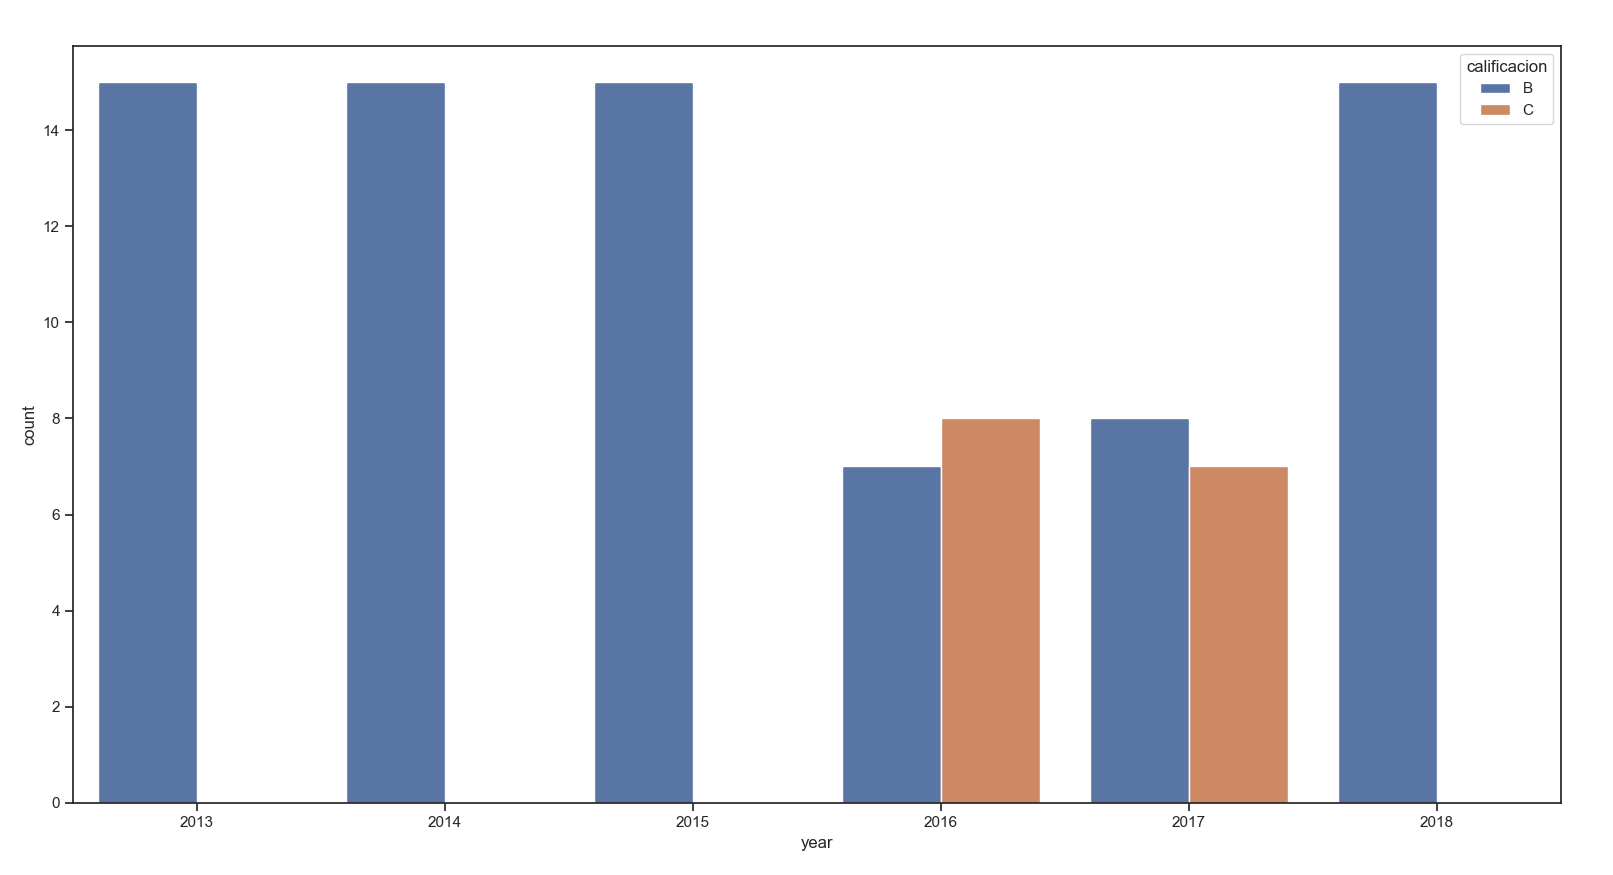
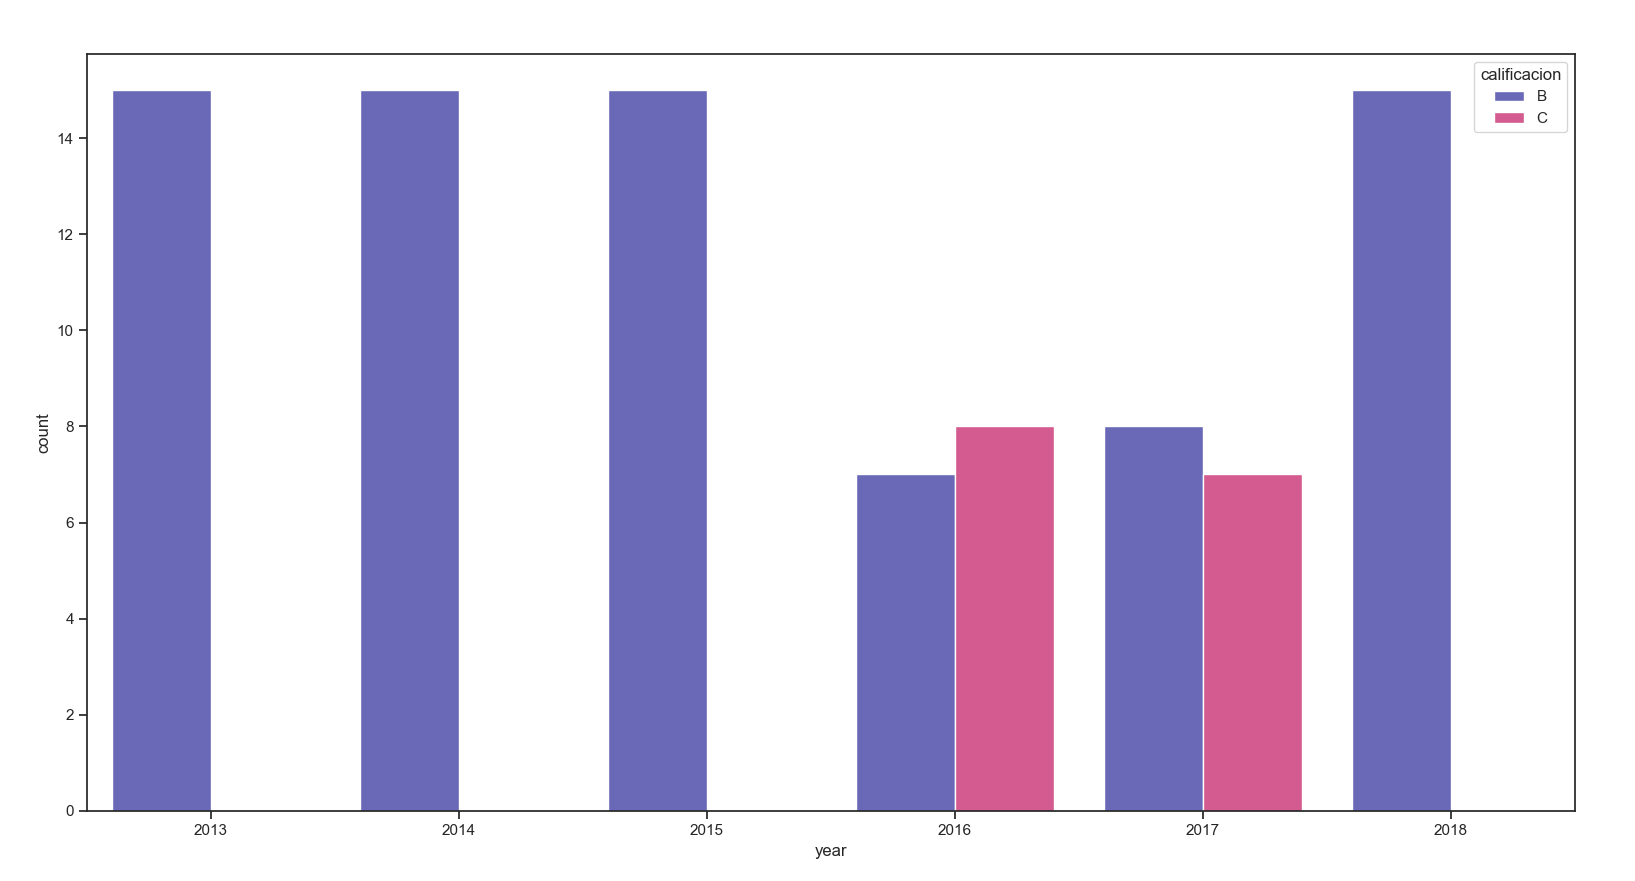
grafos de seaborn cambiados de color

Changed region(s): [[0.0, 0.0309, 0.9609, 0.9566], [0.682, 0.4629, 0.744, 0.4937], [0.496, 0.9566, 0.527, 0.9874]]

diff --git a/src/main/python/docentes/barplot_metro_rank_count.py b/src/main/python/docentes/barplot_metro_rank_count.py
@@ -40,7 +40,13 @@ cat_5 = df[df['year']==2017]
 cat_6 = df[df['year']==2018]
 
 sns.set(style='ticks')
-ax = sns.countplot(x="year", hue="calificacion" ,data=df)
+
+
+
+color = ["#5C5CC4", "#E7478D", "#90C4FE", "#1BBC9D", "#FFBB4C"]
+
+ax = sns.countplot(x="year", hue="calificacion" ,data=df,palette=color)
+
 
 plt.show()
 

diff --git a/src/main/python/docentes/barplot_region_rank_count.py b/src/main/python/docentes/barplot_region_rank_count.py
@@ -40,7 +40,9 @@ cat_5 = df[df['year']==2017]
 cat_6 = df[df['year']==2018]
 
 sns.set(style='ticks')
-ax = sns.countplot(x="year", hue="calificacion" ,data=df)
+
+color = ["#5C5CC4", "#E7478D", "#90C4FE", "#1BBC9D", "#FFBB4C"]
+ax = sns.countplot(x="year", hue="calificacion" ,data=df,palette=color)
 
 plt.show()
 

diff --git a/src/main/python/docentes/barplot_yearly_rank_count.py b/src/main/python/docentes/barplot_yearly_rank_count.py
@@ -41,8 +41,8 @@ cat_6 = df[df['year']==2018]
 
 sns.set(style='ticks')
 
-
-ax = sns.countplot(x="year", hue="calificacion" ,data=df)
+color = ["#5C5CC4", "#E7478D", "#90C4FE", "#1BBC9D", "#FFBB4C"]
+ax = sns.countplot(x="year", hue="calificacion" ,data=df,palette=color)
 
 plt.show()
 
